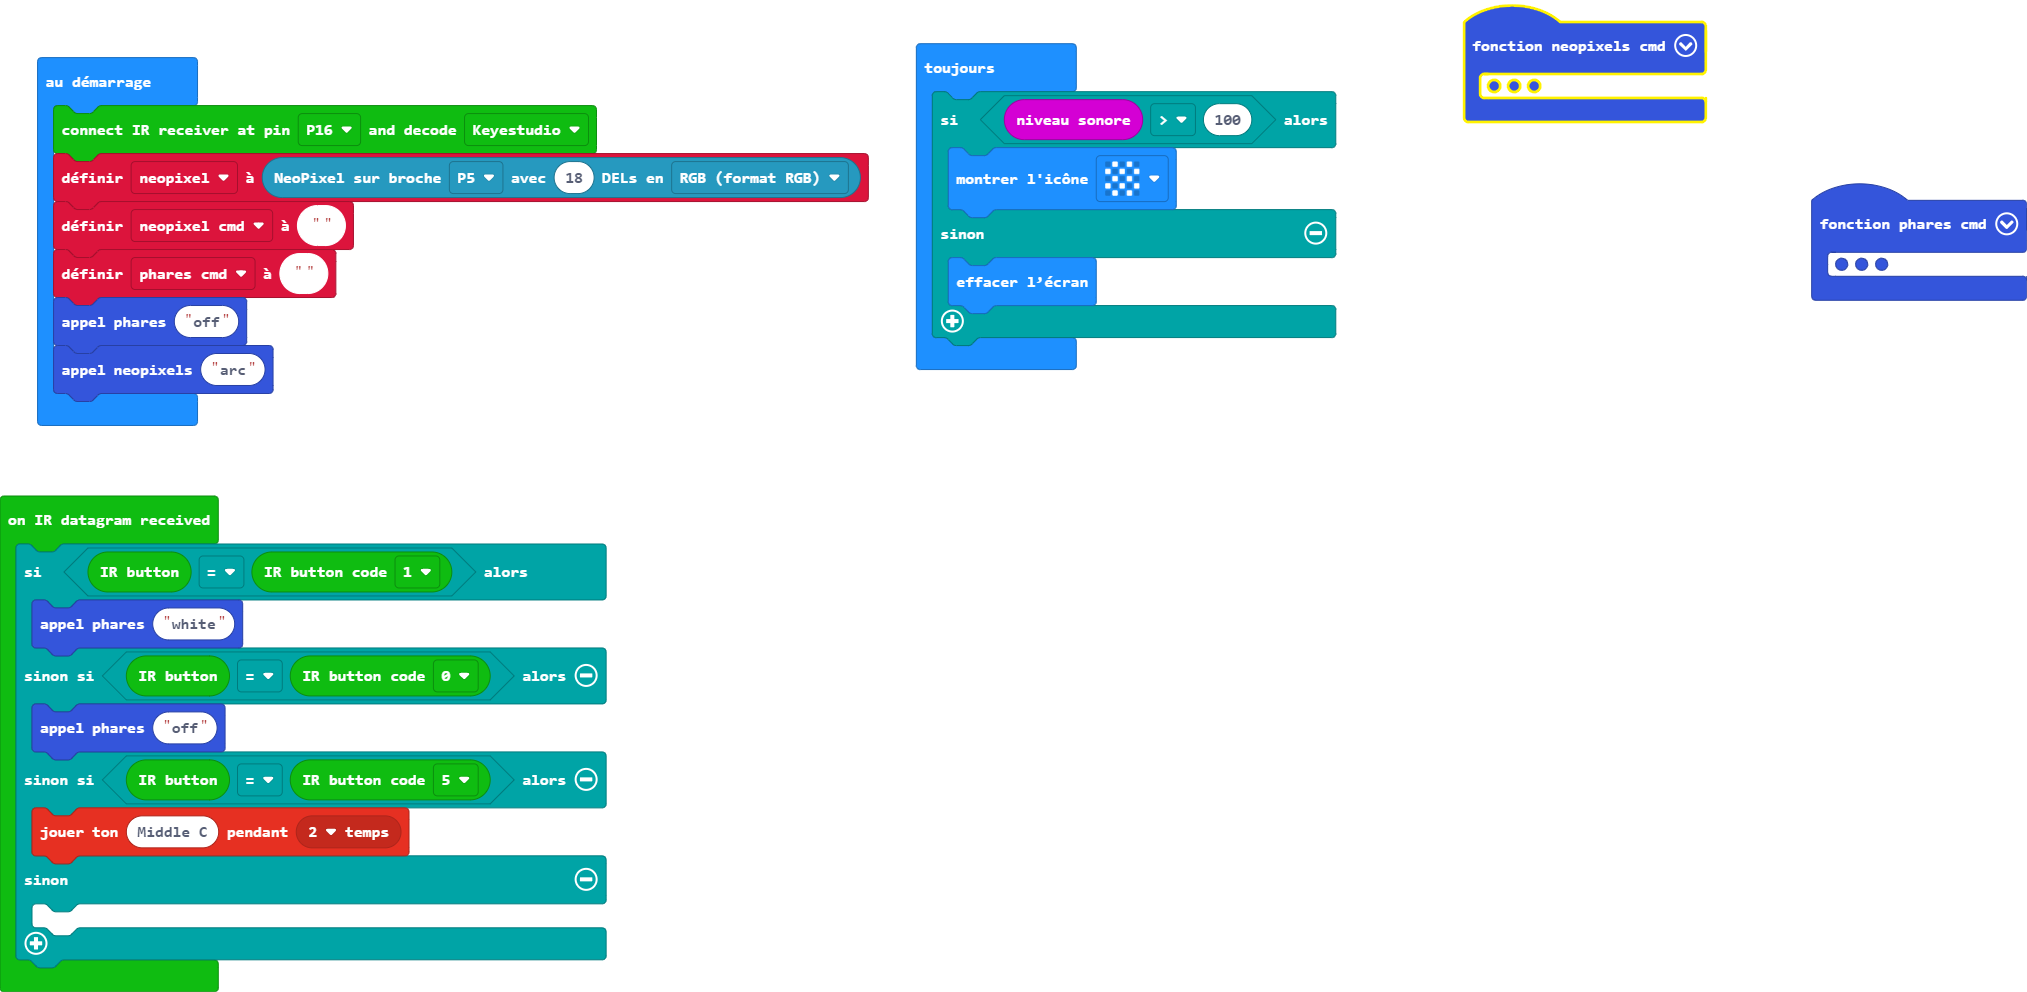
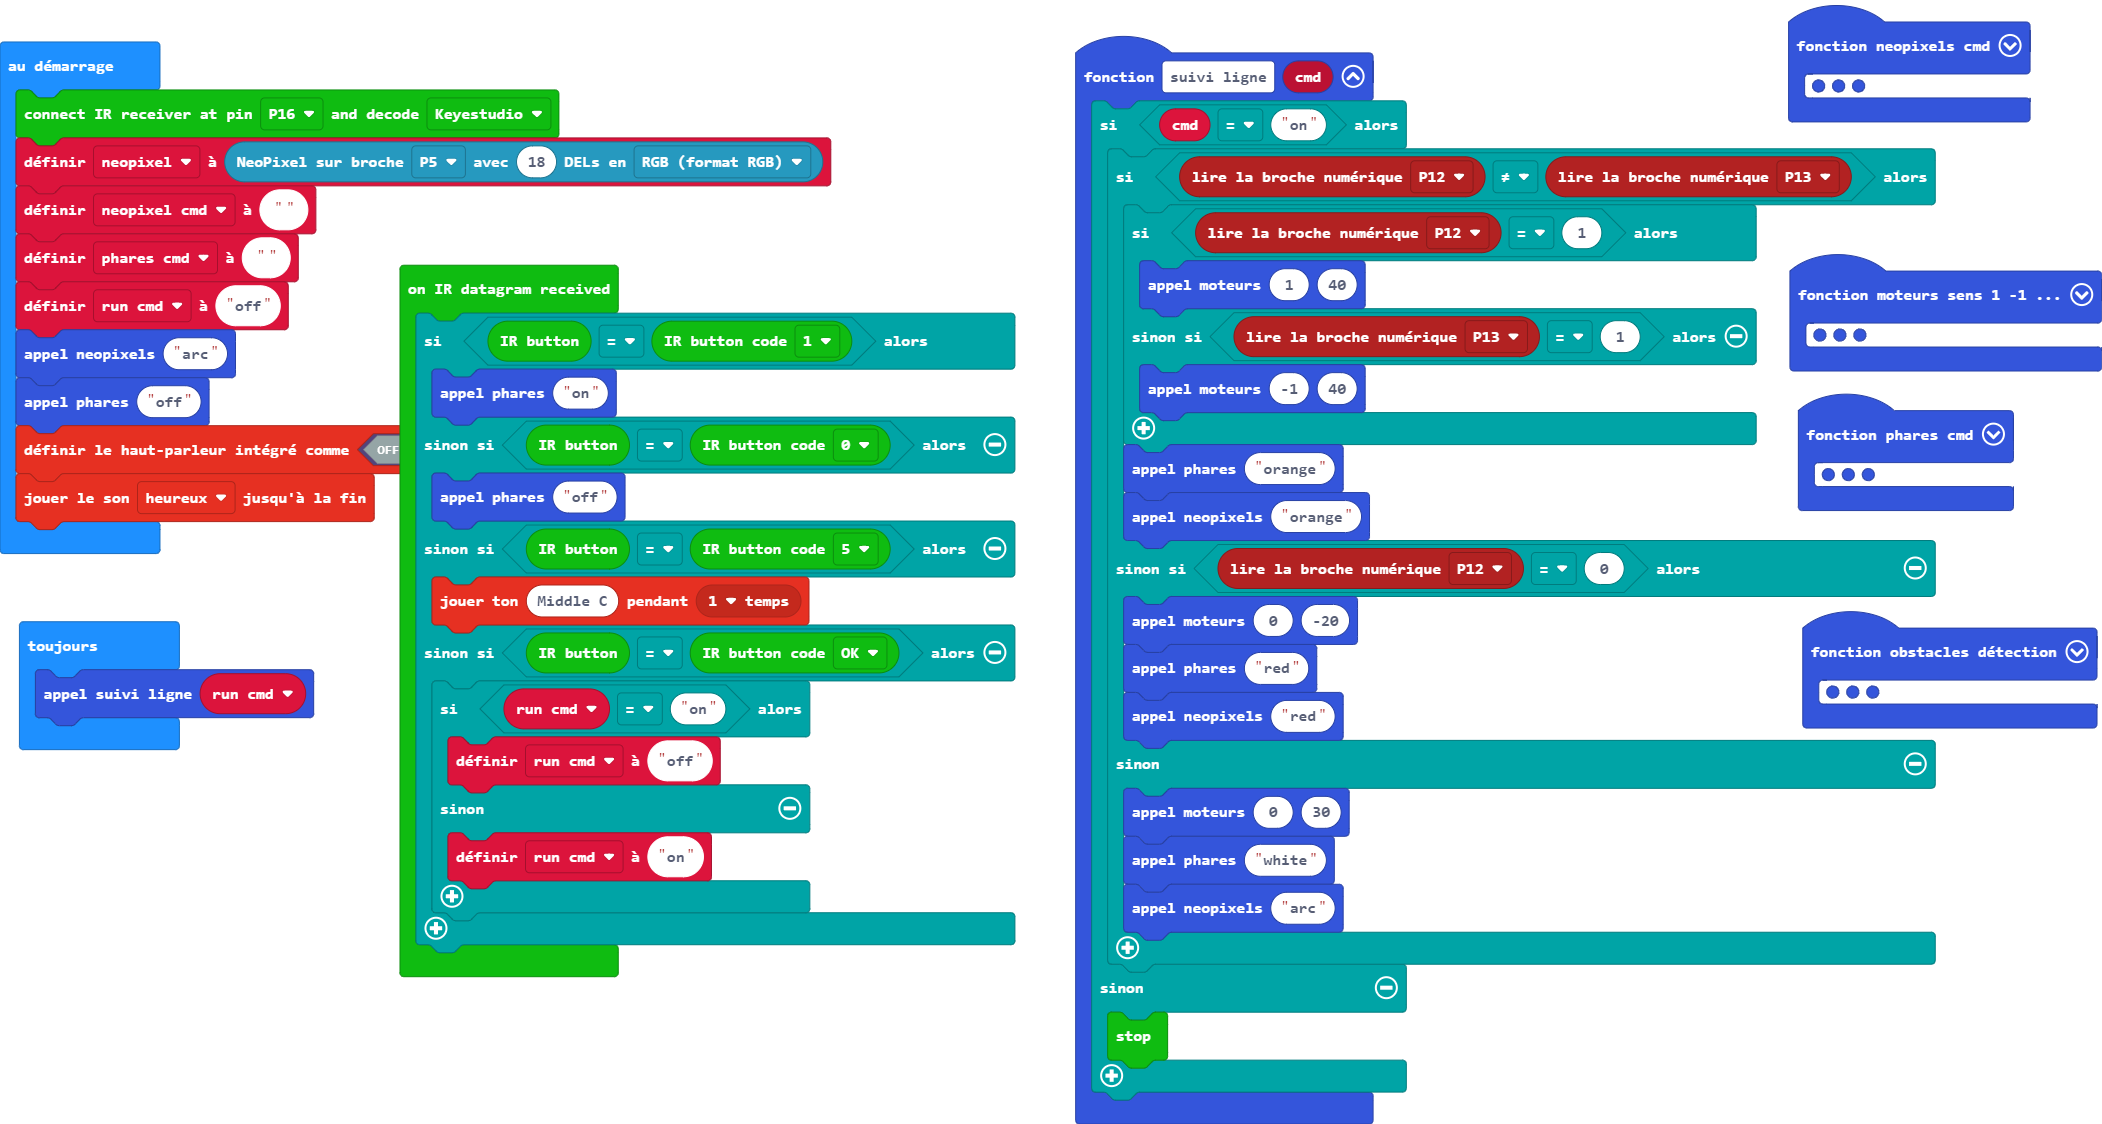
unit tests

diff --git a/main.ts b/main.ts
@@ -1,3 +1,26 @@
+function suivi_ligne (cmd: string) {
+    if (cmd == "on") {
+        if (pins.digitalReadPin(DigitalPin.P12) != pins.digitalReadPin(DigitalPin.P13)) {
+            if (pins.digitalReadPin(DigitalPin.P12) == 1) {
+                moteurs(1, 40)
+            } else if (pins.digitalReadPin(DigitalPin.P13) == 1) {
+                moteurs(-1, 40)
+            }
+            phares("orange")
+            neopixels("orange")
+        } else if (pins.digitalReadPin(DigitalPin.P12) == 0) {
+            moteurs(0, -20)
+            phares("red")
+            neopixels("red")
+        } else {
+            moteurs(0, 30)
+            phares("white")
+            neopixels("arc")
+        }
+    } else {
+        RobotCar_Keyestudio.Motors.stop()
+    }
+}
 function phares (cmd: string) {
     if (phares_cmd != cmd) {
         if (cmd == "white") {
@@ -12,6 +35,10 @@ function phares (cmd: string) {
             RobotCar_Keyestudio.Leds.showBlue()
         } else if (cmd == "orange") {
             RobotCar_Keyestudio.Leds.setRGB(255, 60, 0)
+        } else if (cmd == "on") {
+            RobotCar_Keyestudio.Leds.showWhite()
+        } else {
+        	
         }
         phares_cmd = cmd
     }
@@ -40,23 +67,43 @@ function neopixels (cmd: string) {
             neopixel2.setPixelColor(11, neopixel.colors(NeoPixelColors.Red))
             neopixel2.setPixelColor(12, neopixel.colors(NeoPixelColors.Red))
             neopixel2.show()
+        } else if (cmd == "orange") {
+            neopixel2.showColor(neopixel.colors(NeoPixelColors.Orange))
         } else {
             neopixel2.showColor(neopixel.colors(NeoPixelColors.Black))
         }
         neopixel_cmd = cmd
     }
 }
+function moteurs (sens_1_1: number, vitesse_: number) {
+    if (vitesse_ < 0) {
+        music.playTone(262, music.beat(BeatFraction.Whole))
+    }
+    RobotCar_Keyestudio.Motors.steer(vitesse_, 275 * sens_1_1)
+}
+function obstacles_détection () {
+    if (RobotCar_Keyestudio.IrSensors.isRightBlocked()) {
+        neopixels("right")
+    } else if (RobotCar_Keyestudio.IrSensors.isLeftBlocked()) {
+        neopixels("left")
+    }
+}
 makerbit.onIrDatagram(function () {
     if (makerbit.irButton() == makerbit.irButtonCode(IrButton.Number_1)) {
-        phares("white")
+        phares("on")
     } else if (makerbit.irButton() == makerbit.irButtonCode(IrButton.Number_0)) {
         phares("off")
     } else if (makerbit.irButton() == makerbit.irButtonCode(IrButton.Number_5)) {
-        music.playTone(262, music.beat(BeatFraction.Double))
-    } else {
-    	
+        music.playTone(262, music.beat(BeatFraction.Whole))
+    } else if (makerbit.irButton() == makerbit.irButtonCode(IrButton.Ok)) {
+        if (run_cmd == "on") {
+            run_cmd = "off"
+        } else {
+            run_cmd = "on"
+        }
     }
 })
+let run_cmd = ""
 let phares_cmd = ""
 let neopixel_cmd = ""
 let neopixel2: neopixel.Strip = null
@@ -64,12 +111,11 @@ makerbit.connectIrReceiver(DigitalPin.P16, IrProtocol.Keyestudio)
 neopixel2 = neopixel.create(DigitalPin.P5, 18, NeoPixelMode.RGB)
 neopixel_cmd = ""
 phares_cmd = ""
-phares("off")
+run_cmd = "off"
 neopixels("arc")
+phares("off")
+music.setBuiltInSpeakerEnabled(false)
+soundExpression.happy.playUntilDone()
 basic.forever(function () {
-    if (input.soundLevel() > 100) {
-        basic.showIcon(IconNames.Chessboard)
-    } else {
-        basic.clearScreen()
-    }
+    suivi_ligne(run_cmd)
 })
